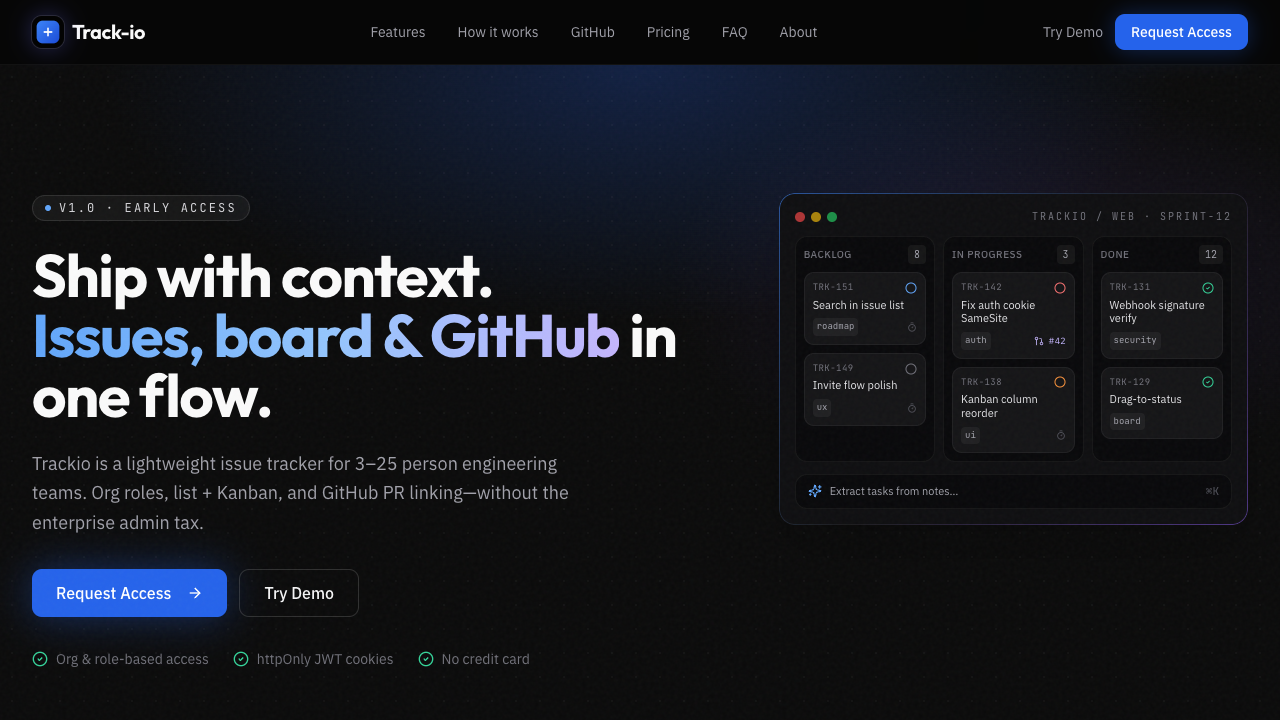
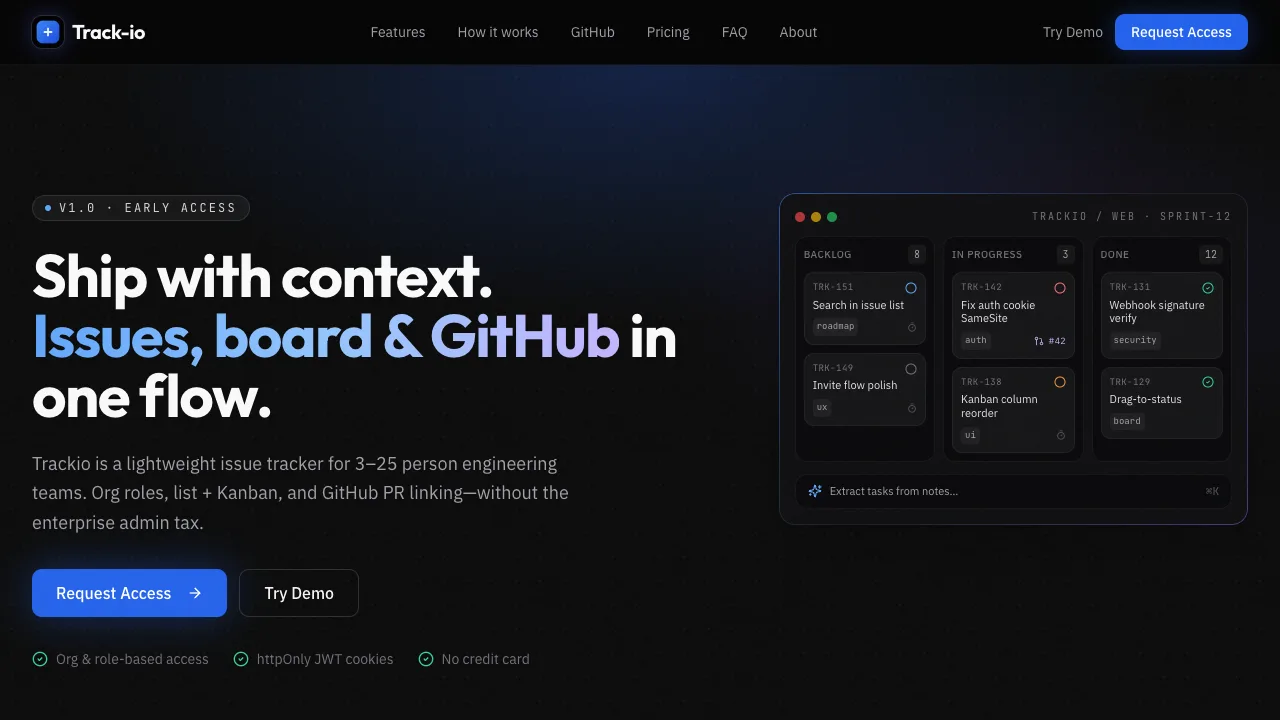
Compress profile and Track-IO images
- Profile: 1.96 MB PNG loaded twice -> 21 KB hero WebP + 1.5 KB nav avatar
- Track-IO dashboard: 660 KB PNG named .webp -> real 43 KB WebP
- Move the original profile PNG next to the OG cover script that uses it

Changed region(s): [[0.875, 0.0306, 0.9688, 0.0611], [0.0625, 0.825, 0.125, 0.8556], [0.0312, 0.4583, 0.0625, 0.4889]]

diff --git a/src/modules/renderer.js b/src/modules/renderer.js
@@ -49,7 +49,7 @@ function renderHero() {
         <div class="hero-image-wrapper">
           <div class="hero-image-glow"></div>
           <div class="hero-image-frame">
-            <img src="./Profile.png" alt="${heroData.name}" loading="eager" />
+            <img src="./profile.webp" alt="${heroData.name}" loading="eager" fetchpriority="high" width="800" height="800" />
             <span class="hero-image-badge">${heroData.title}</span>
           </div>
         </div>

diff --git a/index.html b/index.html
@@ -58,7 +58,7 @@
   <header id="nav">
     <div class="container nav-container">
       <a href="#" class="brand-logo-container">
-        <img src="./Profile.png" alt="Shubham Chopde" class="brand-avatar" />
+        <img src="./profile-avatar.webp" alt="Shubham Chopde" class="brand-avatar" width="36" height="36" />
         <span class="brand-name">Shubham.</span>
       </a>
       <nav class="nav-pill" aria-label="Main navigation">

diff --git a/scripts/og-cover.html b/scripts/og-cover.html
@@ -58,7 +58,7 @@
 </head>
 <body>
   <div class="glow" aria-hidden="true"></div>
-  <img class="photo" src="../public/Profile.png" alt="" />
+  <img class="photo" src="./assets/Profile.png" alt="" />
   <div class="copy">
     <h1>Shubham Chopde</h1>
     <div class="title">Software Engineer</div>
